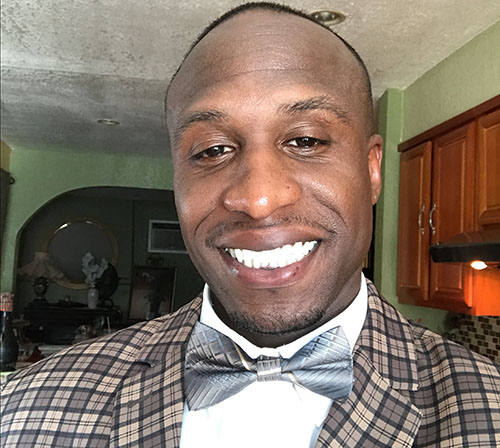
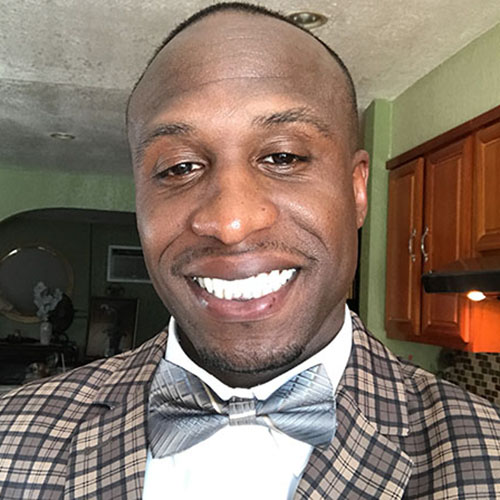
fix speaker image sizes, add apply button

diff --git a/_includes/2018_css/agency.css b/_includes/2018_css/agency.css
@@ -109,25 +109,6 @@ h4 {
     filter: grayscale(100%);
 }
 
-.img-vert-centered {
-    vertical-align: middle;
-}
-
-/* .grid-container {
-  display: grid;
-  grid-template-columns: auto auto auto;
-  grid-template-rows: auto auto;
-  grid-gap: 10px;
-  background-color: #2196F3;
-  padding: 10px;
-}
-
-.grid-container>div {
-    background-color: rgba(255, 255, 255, 0.8);
-    text-align: center;
-    padding:20px 0;
-    font-size: 30px;
-  } */
 
 aside.clients {
     padding-top: 150px;
@@ -536,7 +517,7 @@ section h3.section-subheading {
     font-size: 100%;
     font-style: italic;
 }
-*/
+ */
 
 #speakers * {
     z-index: 2;

diff --git a/_includes/2018_data/speakers.html b/_includes/2018_data/speakers.html
@@ -26,6 +26,7 @@
                 </div>
             {% endfor %}
             </div>
+            <center><a href="#" class="page-scroll btn btn-xl">Apply to Speak</a></center>
             <!-- <p>Visit 2016's page.</p>
             <center><a href="/2016" class="page-scroll btn btn-xl">Visit Now</a></center> -->
         </div>
